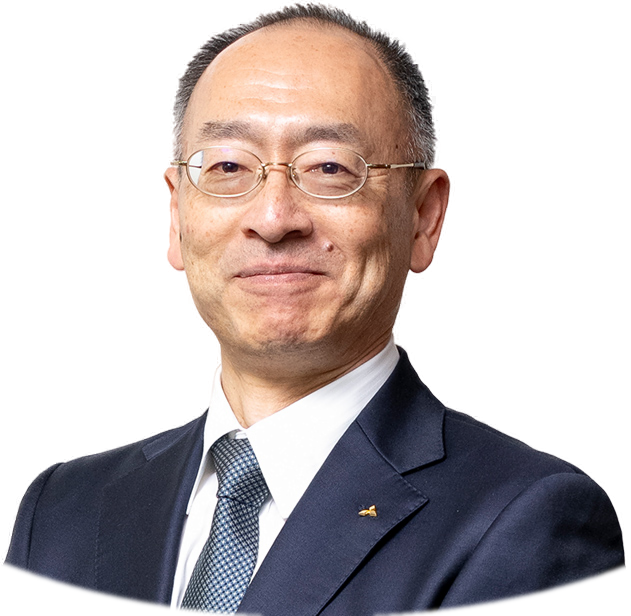
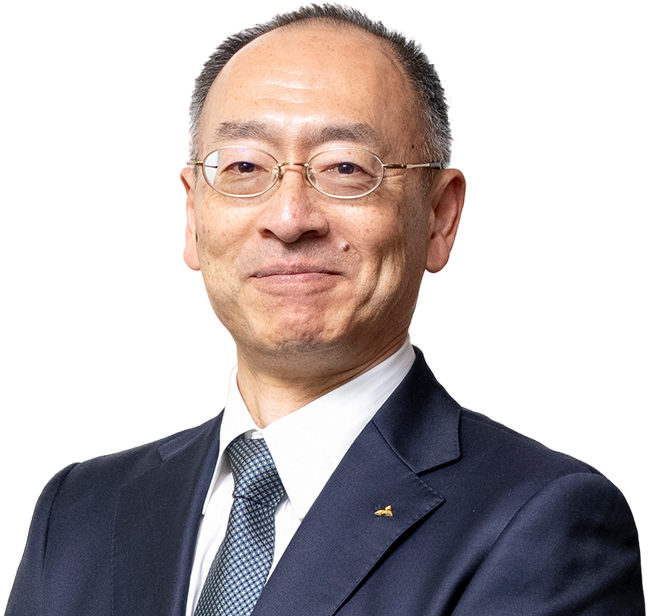
MHI Story: eine Grafik, CEO unten gerade abgeschnitten
Claude-Session: https://claude.ai/code/session_019XvbgBLukfMhVVHAfy3Xu4

diff --git a/news/mitsubishi-heavy-industries-halbjahr-fy2026-gasturbinen/index.html b/news/mitsubishi-heavy-industries-halbjahr-fy2026-gasturbinen/index.html
@@ -45,7 +45,7 @@
 <p class="kchip-row"><span class="kchip" data-kurs="7011.T">$7011</span></p>
 <p class="lead">Mitsubishi Heavy Industries steigert im ersten Halbjahr 2026/27 den Geschäftsgewinn um 45 % auf 249 Mrd. Yen, hebt die Jahresprognose an und kündigt einen Aktienrückkauf über bis zu 300 Mrd. Yen an. Die Aktie fällt am Freitag trotzdem.</p>
 <p class="byline"><strong><a href="../../ueber-uns/">Aus der Redaktion</a></strong> · <time datetime="2026-11-06T10:30:00+01:00">6. November 2026, 10:30 Uhr</time> · 5 Min. Lesezeit</p>
-<div class="sharebar" data-url="https://dividenden-rechner.github.io/aktien-hub/news/mitsubishi-heavy-industries-halbjahr-fy2026-gasturbinen/" data-story="{&quot;title&quot;: &quot;&quot;, &quot;lines&quot;: [&quot;Umsatz: 2.523 Mrd. Yen (+19 %)&quot;, &quot;Gewinn: 249 Mrd. Yen (+45 %)&quot;], &quot;points&quot;: [&quot;Energiegeschäft als Motor: Die Sparte Energy Systems verdient mit 145 Mrd. Yen fast doppelt so viel wie ein Jahr zuvor (+80 %), getragen von Gasturbinen (GTCC), Flugzeugtriebwerken und Kernkraft.&quot;, &quot;Prognose angehoben: Für das Geschäftsjahr erwartet Mitsubishi Heavy jetzt 6,0 Bio. Yen Umsatz (zuvor 5,4) und 600 Mrd. Yen Geschäftsgewinn (zuvor 540), das sind 38,8 % mehr als im Vorjahr.&quot;, &quot;Mehr Geld für Aktionäre: Die Dividende steigt auf 29 Yen (Vorjahr 25 Yen), dazu kommt ein Rückkauf über bis zu 300 Mrd. Yen.&quot;], &quot;box&quot;: &quot;Kurz gesagt&quot;, &quot;ct&quot;: &quot;&quot;, &quot;img&quot;: &quot;../../assets/magazin/mitsubishi-heavy-halbjahr-fy2026-kennzahlen.png&quot;, &quot;logo&quot;: &quot;../../assets/logos/7011-t.png&quot;, &quot;cat&quot;: &quot;Quartalszahlen&quot;, &quot;tpl&quot;: &quot;../../assets/story-vorlagen/quartalsbericht.png&quot;, &quot;fit&quot;: &quot;contain&quot;, &quot;chart&quot;: &quot;../../assets/magazin/mitsubishi-heavy-halbjahr-fy2026-prognose.png&quot;, &quot;portrait&quot;: &quot;../../assets/magazin/eisaku-ito-mitsubishi-heavy.png&quot;, &quot;quote&quot;: &quot;&quot;, &quot;quote_by&quot;: &quot;Eisaku Ito | CEO Mitsubishi Heavy Industries&quot;, &quot;text&quot;: &quot;Mitsubishi Heavy verdient im ersten Halbjahr 45 % mehr, und fast der ganze Zuwachs kommt aus einer Sparte: Im Energiegeschäft fast verdoppelt sich der Gewinn, weil Gasturbinen für Kraftwerke in Nordamerika und Asien gefragt sind und die Kernkraft anzieht.\nSchwächen gibt es trotzdem. Die Sparte Anlagenbau verdient 7 % weniger, und bei Dampfturbinen fallen Verluste aus zwei Kohlevergasungs-Kraftwerken in Japan an, 70 Mrd. Yen sind dafür im Jahr eingeplant. Der Auftragseingang bei Luftfahrt und Verteidigung fällt um 46 %, weil das Vorjahr von Großaufträgen geprägt war.\nDas Geld fließt zurück: Der freie Cashflow liegt bei 468 Mrd. Yen, die Kasse übersteigt die Schulden um 1,2 Billionen Yen. Die Dividende steigt auf 29 Yen, dazu kommt ein Rückkauf über bis zu 300 Mrd. Yen. In der Prognose fehlen noch die Folgen der Lage im Nahen Osten.&quot;, &quot;para&quot;: true}"><span class="sharelab">Teilen</span><button type="button" class="sharebtn ig" id="igshare" title="Als Instagram-Story teilen" aria-label="Als Instagram-Story teilen"><svg viewBox="0 0 24 24" aria-hidden="true"><rect x="3" y="3" width="18" height="18" rx="5.2" fill="none" stroke="currentColor" stroke-width="2"/><circle cx="12" cy="12" r="4.1" fill="none" stroke="currentColor" stroke-width="2"/><circle cx="17.3" cy="6.7" r="1.3"/></svg></button><a class="sharebtn x" href="https://twitter.com/intent/tweet?text=Mitsubishi%20Heavy%3A%20Gasturbinen%20und%20Kernkraft%20treiben%20den%20Halbjahresgewinn%20um%2045%E2%80%AF%25%2C%20Prognose%20und%20R%C3%BCckkauf%20folgen%0A%0A%23Dividende%20%23Aktien%20%23Quartalszahlen&amp;url=https%3A//dividenden-rechner.github.io/aktien-hub/news/mitsubishi-heavy-industries-halbjahr-fy2026-gasturbinen/" target="_blank" rel="noopener nofollow" title="Auf X teilen" aria-label="Auf X teilen"><svg viewBox="0 0 24 24" aria-hidden="true"><path d="M18.244 2.25h3.308l-7.227 8.26 8.502 11.24H16.17l-5.214-6.817L4.99 21.75H1.68l7.73-8.835L1.254 2.25H8.08l4.713 6.231zm-1.161 17.52h1.833L7.084 4.126H5.117z"/></svg></a><a class="sharebtn facebook" href="https://www.facebook.com/sharer/sharer.php?u=https%3A//dividenden-rechner.github.io/aktien-hub/news/mitsubishi-heavy-industries-halbjahr-fy2026-gasturbinen/" target="_blank" rel="noopener nofollow" title="Auf Facebook teilen" aria-label="Auf Facebook teilen"><svg viewBox="0 0 24 24" aria-hidden="true"><path d="M24 12.073c0-6.627-5.373-12-12-12s-12 5.373-12 12c0 5.99 4.388 10.954 10.125 11.854v-8.385H7.078v-3.47h3.047V9.43c0-3.007 1.792-4.669 4.533-4.669 1.312 0 2.686.235 2.686.235v2.953H15.83c-1.491 0-1.956.925-1.956 1.874v2.25h3.328l-.532 3.47h-2.796v8.385C19.612 23.027 24 18.062 24 12.073z"/></svg></a><a class="sharebtn linkedin" href="https://www.linkedin.com/sharing/share-offsite/?url=https%3A//dividenden-rechner.github.io/aktien-hub/news/mitsubishi-heavy-industries-halbjahr-fy2026-gasturbinen/" target="_blank" rel="noopener nofollow" title="Auf LinkedIn teilen" aria-label="Auf LinkedIn teilen"><svg viewBox="0 0 24 24" aria-hidden="true"><path d="M20.447 20.452h-3.554v-5.569c0-1.328-.027-3.037-1.852-3.037-1.853 0-2.136 1.445-2.136 2.939v5.667H9.351V9h3.414v1.561h.046c.477-.9 1.637-1.85 3.37-1.85 3.601 0 4.267 2.37 4.267 5.455v6.286zM5.337 7.433c-1.144 0-2.063-.926-2.063-2.065 0-1.138.92-2.063 2.063-2.063 1.14 0 2.064.925 2.064 2.063 0 1.139-.925 2.065-2.064 2.065zm1.782 13.019H3.555V9h3.564v11.452zM22.225 0H1.771C.792 0 0 .774 0 1.729v20.542C0 23.227.792 24 1.771 24h20.451C23.2 24 24 23.227 24 22.271V1.729C24 .774 23.2 0 22.222 0h.003z"/></svg></a><a class="sharebtn whatsapp" href="https://wa.me/?text=Mitsubishi%20Heavy%3A%20Gasturbinen%20und%20Kernkraft%20treiben%20den%20Halbjahresgewinn%20um%2045%E2%80%AF%25%2C%20Prognose%20und%20R%C3%BCckkauf%20folgen%20https%3A//dividenden-rechner.github.io/aktien-hub/news/mitsubishi-heavy-industries-halbjahr-fy2026-gasturbinen/" target="_blank" rel="noopener nofollow" title="Per WhatsApp senden" aria-label="Per WhatsApp senden"><svg viewBox="0 0 24 24" aria-hidden="true"><path d="M12 2a10 10 0 00-8.6 15.1L2 22l5-1.3A10 10 0 1012 2zm0 18.2c-1.5 0-3-.4-4.2-1.2l-.3-.2-3 .8.8-2.9-.2-.3A8.2 8.2 0 1112 20.2zm4.5-6.1c-.2-.1-1.5-.7-1.7-.8-.2-.1-.4-.1-.6.1l-.8 1c-.1.2-.3.2-.5.1-1.4-.7-2.4-1.3-3.3-2.9-.2-.4.2-.4.7-1.3.1-.2 0-.3 0-.5l-.8-1.8c-.2-.5-.4-.4-.6-.4h-.5c-.2 0-.5.1-.7.3-.8.8-1 1.7-.9 2.6.2 1.1.8 2.1 1.6 3 1.4 1.7 3.1 2.6 5.2 3.2.7.2 1.3.2 1.8.1.6-.1 1.5-.6 1.7-1.2.2-.6.2-1.1.2-1.2-.1-.1-.3-.2-.5-.3z"/></svg></a><a class="sharebtn telegram" href="https://t.me/share/url?url=https%3A//dividenden-rechner.github.io/aktien-hub/news/mitsubishi-heavy-industries-halbjahr-fy2026-gasturbinen/&amp;text=Mitsubishi%20Heavy%3A%20Gasturbinen%20und%20Kernkraft%20treiben%20den%20Halbjahresgewinn%20um%2045%E2%80%AF%25%2C%20Prognose%20und%20R%C3%BCckkauf%20folgen" target="_blank" rel="noopener nofollow" title="Per Telegram senden" aria-label="Per Telegram senden"><svg viewBox="0 0 24 24" aria-hidden="true"><path d="M9.78 18.65l.28-4.23 7.68-6.92c.34-.31-.07-.46-.52-.19L7.74 13.3 3.64 12c-.88-.25-.89-.86.2-1.3l15.97-6.16c.73-.33 1.43.18 1.15 1.3l-2.72 12.81c-.19.91-.74 1.13-1.5.71L12.6 16.3l-1.99 1.93c-.23.23-.42.42-.83.42z"/></svg></a><a class="sharebtn mail" href="mailto:?subject=Mitsubishi%20Heavy%3A%20Gasturbinen%20und%20Kernkraft%20treiben%20den%20Halbjahresgewinn%20um%2045%E2%80%AF%25%2C%20Prognose%20und%20R%C3%BCckkauf%20folgen&amp;body=Mitsubishi%20Heavy%20Industries%20steigert%20im%20ersten%20Halbjahr%202026/27%20den%20Gesch%C3%A4ftsgewinn%20um%2045%E2%80%AF%25%20auf%20249%E2%80%AFMrd.%20Yen%2C%20hebt%20die%20Jahresprognose%20an%20und%20k%C3%BCndigt%20einen%20Aktienr%C3%BCckkauf%20%C3%BCber%20bis%20zu%20300%E2%80%AFMrd.%20Yen%20an.%20Die%20Aktie%20f%C3%A4llt%20am%20Freitag%20trotzdem.%0A%0Ahttps%3A//dividenden-rechner.github.io/aktien-hub/news/mitsubishi-heavy-industries-halbjahr-fy2026-gasturbinen/" target="_blank" rel="noopener nofollow" title="Per E-Mail senden" aria-label="Per E-Mail senden"><svg viewBox="0 0 24 24" aria-hidden="true"><rect x="2.5" y="5" width="19" height="14" rx="2.2" fill="none" stroke="currentColor" stroke-width="2"/><path d="M3.5 7l8.5 6.2L20.5 7" fill="none" stroke="currentColor" stroke-width="2" stroke-linejoin="round"/></svg></a><button type="button" class="sharebtn" id="cpshare" title="Link kopieren" aria-label="Link kopieren"><svg viewBox="0 0 24 24" aria-hidden="true"><path d="M10 14a4 4 0 005.7 0l3-3a4 4 0 00-5.7-5.7l-1 1M14 10a4 4 0 00-5.7 0l-3 3a4 4 0 005.7 5.7l1-1" fill="none" stroke="currentColor" stroke-width="2" stroke-linecap="round"/></svg></button><span class="sharemsg" id="igmsg" role="status"></span></div>
+<div class="sharebar" data-url="https://dividenden-rechner.github.io/aktien-hub/news/mitsubishi-heavy-industries-halbjahr-fy2026-gasturbinen/" data-story="{&quot;title&quot;: &quot;&quot;, &quot;lines&quot;: [&quot;Umsatz: 2.523 Mrd. Yen (+19 %)&quot;, &quot;Gewinn: 249 Mrd. Yen (+45 %)&quot;], &quot;points&quot;: [&quot;Energiegeschäft als Motor: Die Sparte Energy Systems verdient mit 145 Mrd. Yen fast doppelt so viel wie ein Jahr zuvor (+80 %), getragen von Gasturbinen (GTCC), Flugzeugtriebwerken und Kernkraft.&quot;, &quot;Prognose angehoben: Für das Geschäftsjahr erwartet Mitsubishi Heavy jetzt 6,0 Bio. Yen Umsatz (zuvor 5,4) und 600 Mrd. Yen Geschäftsgewinn (zuvor 540), das sind 38,8 % mehr als im Vorjahr.&quot;, &quot;Mehr Geld für Aktionäre: Die Dividende steigt auf 29 Yen (Vorjahr 25 Yen), dazu kommt ein Rückkauf über bis zu 300 Mrd. Yen.&quot;], &quot;box&quot;: &quot;Kurz gesagt&quot;, &quot;ct&quot;: &quot;&quot;, &quot;img&quot;: &quot;../../assets/magazin/mitsubishi-heavy-halbjahr-fy2026-kennzahlen.png&quot;, &quot;logo&quot;: &quot;../../assets/logos/7011-t.png&quot;, &quot;cat&quot;: &quot;Quartalszahlen&quot;, &quot;tpl&quot;: &quot;../../assets/story-vorlagen/quartalsbericht.png&quot;, &quot;fit&quot;: &quot;contain&quot;, &quot;portrait&quot;: &quot;../../assets/magazin/eisaku-ito-mitsubishi-heavy.png&quot;, &quot;quote&quot;: &quot;&quot;, &quot;quote_by&quot;: &quot;Eisaku Ito | CEO Mitsubishi Heavy Industries&quot;, &quot;text&quot;: &quot;Mitsubishi Heavy verdient im ersten Halbjahr 45 % mehr, und fast der ganze Zuwachs kommt aus einer Sparte: Im Energiegeschäft fast verdoppelt sich der Gewinn, weil Gasturbinen für Kraftwerke in Nordamerika und Asien gefragt sind und die Kernkraft anzieht.\nSchwächen gibt es trotzdem. Die Sparte Anlagenbau verdient 7 % weniger, und bei Dampfturbinen fallen Verluste aus zwei Kohlevergasungs-Kraftwerken in Japan an, 70 Mrd. Yen sind dafür im Jahr eingeplant. Der Auftragseingang bei Luftfahrt und Verteidigung fällt um 46 %, weil das Vorjahr von Großaufträgen geprägt war.\nDas Geld fließt zurück: Der freie Cashflow liegt bei 468 Mrd. Yen, die Kasse übersteigt die Schulden um 1,2 Billionen Yen. Die Dividende steigt auf 29 Yen, dazu kommt ein Rückkauf über bis zu 300 Mrd. Yen. In der Prognose fehlen noch die Folgen der Lage im Nahen Osten.&quot;, &quot;para&quot;: true}"><span class="sharelab">Teilen</span><button type="button" class="sharebtn ig" id="igshare" title="Als Instagram-Story teilen" aria-label="Als Instagram-Story teilen"><svg viewBox="0 0 24 24" aria-hidden="true"><rect x="3" y="3" width="18" height="18" rx="5.2" fill="none" stroke="currentColor" stroke-width="2"/><circle cx="12" cy="12" r="4.1" fill="none" stroke="currentColor" stroke-width="2"/><circle cx="17.3" cy="6.7" r="1.3"/></svg></button><a class="sharebtn x" href="https://twitter.com/intent/tweet?text=Mitsubishi%20Heavy%3A%20Gasturbinen%20und%20Kernkraft%20treiben%20den%20Halbjahresgewinn%20um%2045%E2%80%AF%25%2C%20Prognose%20und%20R%C3%BCckkauf%20folgen%0A%0A%23Dividende%20%23Aktien%20%23Quartalszahlen&amp;url=https%3A//dividenden-rechner.github.io/aktien-hub/news/mitsubishi-heavy-industries-halbjahr-fy2026-gasturbinen/" target="_blank" rel="noopener nofollow" title="Auf X teilen" aria-label="Auf X teilen"><svg viewBox="0 0 24 24" aria-hidden="true"><path d="M18.244 2.25h3.308l-7.227 8.26 8.502 11.24H16.17l-5.214-6.817L4.99 21.75H1.68l7.73-8.835L1.254 2.25H8.08l4.713 6.231zm-1.161 17.52h1.833L7.084 4.126H5.117z"/></svg></a><a class="sharebtn facebook" href="https://www.facebook.com/sharer/sharer.php?u=https%3A//dividenden-rechner.github.io/aktien-hub/news/mitsubishi-heavy-industries-halbjahr-fy2026-gasturbinen/" target="_blank" rel="noopener nofollow" title="Auf Facebook teilen" aria-label="Auf Facebook teilen"><svg viewBox="0 0 24 24" aria-hidden="true"><path d="M24 12.073c0-6.627-5.373-12-12-12s-12 5.373-12 12c0 5.99 4.388 10.954 10.125 11.854v-8.385H7.078v-3.47h3.047V9.43c0-3.007 1.792-4.669 4.533-4.669 1.312 0 2.686.235 2.686.235v2.953H15.83c-1.491 0-1.956.925-1.956 1.874v2.25h3.328l-.532 3.47h-2.796v8.385C19.612 23.027 24 18.062 24 12.073z"/></svg></a><a class="sharebtn linkedin" href="https://www.linkedin.com/sharing/share-offsite/?url=https%3A//dividenden-rechner.github.io/aktien-hub/news/mitsubishi-heavy-industries-halbjahr-fy2026-gasturbinen/" target="_blank" rel="noopener nofollow" title="Auf LinkedIn teilen" aria-label="Auf LinkedIn teilen"><svg viewBox="0 0 24 24" aria-hidden="true"><path d="M20.447 20.452h-3.554v-5.569c0-1.328-.027-3.037-1.852-3.037-1.853 0-2.136 1.445-2.136 2.939v5.667H9.351V9h3.414v1.561h.046c.477-.9 1.637-1.85 3.37-1.85 3.601 0 4.267 2.37 4.267 5.455v6.286zM5.337 7.433c-1.144 0-2.063-.926-2.063-2.065 0-1.138.92-2.063 2.063-2.063 1.14 0 2.064.925 2.064 2.063 0 1.139-.925 2.065-2.064 2.065zm1.782 13.019H3.555V9h3.564v11.452zM22.225 0H1.771C.792 0 0 .774 0 1.729v20.542C0 23.227.792 24 1.771 24h20.451C23.2 24 24 23.227 24 22.271V1.729C24 .774 23.2 0 22.222 0h.003z"/></svg></a><a class="sharebtn whatsapp" href="https://wa.me/?text=Mitsubishi%20Heavy%3A%20Gasturbinen%20und%20Kernkraft%20treiben%20den%20Halbjahresgewinn%20um%2045%E2%80%AF%25%2C%20Prognose%20und%20R%C3%BCckkauf%20folgen%20https%3A//dividenden-rechner.github.io/aktien-hub/news/mitsubishi-heavy-industries-halbjahr-fy2026-gasturbinen/" target="_blank" rel="noopener nofollow" title="Per WhatsApp senden" aria-label="Per WhatsApp senden"><svg viewBox="0 0 24 24" aria-hidden="true"><path d="M12 2a10 10 0 00-8.6 15.1L2 22l5-1.3A10 10 0 1012 2zm0 18.2c-1.5 0-3-.4-4.2-1.2l-.3-.2-3 .8.8-2.9-.2-.3A8.2 8.2 0 1112 20.2zm4.5-6.1c-.2-.1-1.5-.7-1.7-.8-.2-.1-.4-.1-.6.1l-.8 1c-.1.2-.3.2-.5.1-1.4-.7-2.4-1.3-3.3-2.9-.2-.4.2-.4.7-1.3.1-.2 0-.3 0-.5l-.8-1.8c-.2-.5-.4-.4-.6-.4h-.5c-.2 0-.5.1-.7.3-.8.8-1 1.7-.9 2.6.2 1.1.8 2.1 1.6 3 1.4 1.7 3.1 2.6 5.2 3.2.7.2 1.3.2 1.8.1.6-.1 1.5-.6 1.7-1.2.2-.6.2-1.1.2-1.2-.1-.1-.3-.2-.5-.3z"/></svg></a><a class="sharebtn telegram" href="https://t.me/share/url?url=https%3A//dividenden-rechner.github.io/aktien-hub/news/mitsubishi-heavy-industries-halbjahr-fy2026-gasturbinen/&amp;text=Mitsubishi%20Heavy%3A%20Gasturbinen%20und%20Kernkraft%20treiben%20den%20Halbjahresgewinn%20um%2045%E2%80%AF%25%2C%20Prognose%20und%20R%C3%BCckkauf%20folgen" target="_blank" rel="noopener nofollow" title="Per Telegram senden" aria-label="Per Telegram senden"><svg viewBox="0 0 24 24" aria-hidden="true"><path d="M9.78 18.65l.28-4.23 7.68-6.92c.34-.31-.07-.46-.52-.19L7.74 13.3 3.64 12c-.88-.25-.89-.86.2-1.3l15.97-6.16c.73-.33 1.43.18 1.15 1.3l-2.72 12.81c-.19.91-.74 1.13-1.5.71L12.6 16.3l-1.99 1.93c-.23.23-.42.42-.83.42z"/></svg></a><a class="sharebtn mail" href="mailto:?subject=Mitsubishi%20Heavy%3A%20Gasturbinen%20und%20Kernkraft%20treiben%20den%20Halbjahresgewinn%20um%2045%E2%80%AF%25%2C%20Prognose%20und%20R%C3%BCckkauf%20folgen&amp;body=Mitsubishi%20Heavy%20Industries%20steigert%20im%20ersten%20Halbjahr%202026/27%20den%20Gesch%C3%A4ftsgewinn%20um%2045%E2%80%AF%25%20auf%20249%E2%80%AFMrd.%20Yen%2C%20hebt%20die%20Jahresprognose%20an%20und%20k%C3%BCndigt%20einen%20Aktienr%C3%BCckkauf%20%C3%BCber%20bis%20zu%20300%E2%80%AFMrd.%20Yen%20an.%20Die%20Aktie%20f%C3%A4llt%20am%20Freitag%20trotzdem.%0A%0Ahttps%3A//dividenden-rechner.github.io/aktien-hub/news/mitsubishi-heavy-industries-halbjahr-fy2026-gasturbinen/" target="_blank" rel="noopener nofollow" title="Per E-Mail senden" aria-label="Per E-Mail senden"><svg viewBox="0 0 24 24" aria-hidden="true"><rect x="2.5" y="5" width="19" height="14" rx="2.2" fill="none" stroke="currentColor" stroke-width="2"/><path d="M3.5 7l8.5 6.2L20.5 7" fill="none" stroke="currentColor" stroke-width="2" stroke-linejoin="round"/></svg></a><button type="button" class="sharebtn" id="cpshare" title="Link kopieren" aria-label="Link kopieren"><svg viewBox="0 0 24 24" aria-hidden="true"><path d="M10 14a4 4 0 005.7 0l3-3a4 4 0 00-5.7-5.7l-1 1M14 10a4 4 0 00-5.7 0l-3 3a4 4 0 005.7 5.7l1-1" fill="none" stroke="currentColor" stroke-width="2" stroke-linecap="round"/></svg></button><span class="sharemsg" id="igmsg" role="status"></span></div>
 <figure class="cover"><img src="../../assets/magazin/mitsubishi-heavy-industries-halbjahr-fy2026-gasturbinen.jpg" alt="Arbeiter in blauen Overalls beobachten, wie ein Gasturbinenrotor von Mitsubishi Heavy in der Fertigungshalle an einem Kran hängt" width="1200" height="675" fetchpriority="high"><figcaption>Foto: Mitsubishi Heavy Industries (Pressebild)</figcaption></figure>
 <div class="admonition kurz">
 <p class="admonition-title">Kurz gesagt</p>

diff --git a/content/magazin/79738893_2026-11-06/8969_1030-mitsubishi-heavy-industries-halbjahr-fy2026-gasturbinen.md b/content/magazin/79738893_2026-11-06/8969_1030-mitsubishi-heavy-industries-halbjahr-fy2026-gasturbinen.md
@@ -6,7 +6,6 @@ author: "Redaktions-Team Dividenden-Rechner.de"
 author_bio: "Das Redaktions-Team von Dividenden-Rechner.de schreibt über Dividendenaktien, Kennzahlen und Steuerthemen für Privatanleger. Die Rechner und Auswertungen auf der Seite entstehen im eigenen Haus."
 category: Quartalszahlen
 story_image: assets/magazin/mitsubishi-heavy-halbjahr-fy2026-kennzahlen.png
-story_chart: assets/magazin/mitsubishi-heavy-halbjahr-fy2026-prognose.png
 story_portrait: assets/magazin/eisaku-ito-mitsubishi-heavy.png
 story_quote_by: "Eisaku Ito | CEO Mitsubishi Heavy Industries"
 story_text: "Mitsubishi Heavy verdient im ersten Halbjahr 45 % mehr, und fast der ganze Zuwachs kommt aus einer Sparte: Im Energiegeschäft fast verdoppelt sich der Gewinn, weil Gasturbinen für Kraftwerke in Nordamerika und Asien gefragt sind und die Kernkraft anzieht.\nSchwächen gibt es trotzdem. Die Sparte Anlagenbau verdient 7 % weniger, und bei Dampfturbinen fallen Verluste aus zwei Kohlevergasungs-Kraftwerken in Japan an, 70 Mrd. Yen sind dafür im Jahr eingeplant. Der Auftragseingang bei Luftfahrt und Verteidigung fällt um 46 %, weil das Vorjahr von Großaufträgen geprägt war.\nDas Geld fließt zurück: Der freie Cashflow liegt bei 468 Mrd. Yen, die Kasse übersteigt die Schulden um 1,2 Billionen Yen. Die Dividende steigt auf 29 Yen, dazu kommt ein Rückkauf über bis zu 300 Mrd. Yen. In der Prognose fehlen noch die Folgen der Lage im Nahen Osten."
